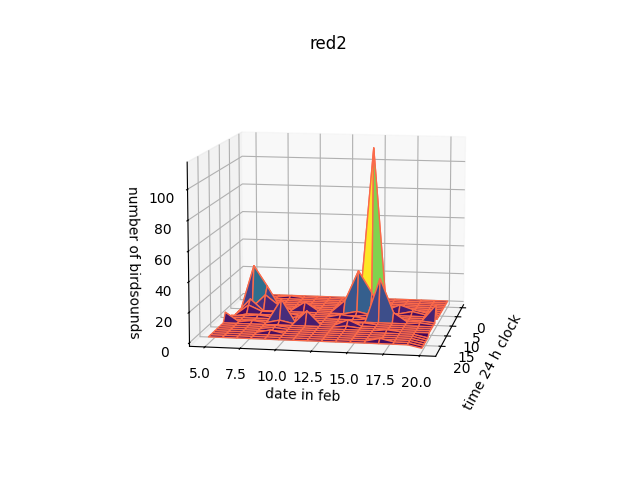
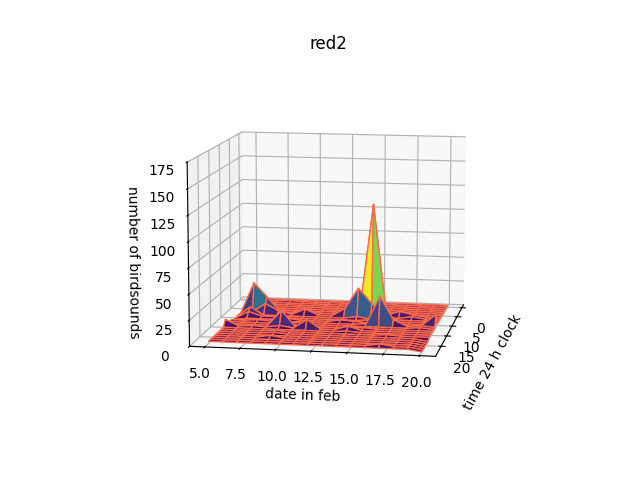
final program for counting birds

diff --git a/birdwatching.py b/birdwatching.py
@@ -52,6 +52,8 @@ class BirdAnalyzer:
 
         return string
 
+    #makes a 3D plot with hour (24 hour clock) on x axis, date in february on y axis
+    #and the occurance of birdsounds on z
     def plot_over_time(self, color):
         title = self.color + self.color_number
         xlabel = "time 24 h clock"
@@ -73,6 +75,8 @@ class BirdAnalyzer:
         ax.set_xlabel(xlabel)
         ax.set_ylabel(ylabel)
         ax.set_zlabel(zlabel)
+
+        ax.set_zlim(0,175)#scaling all to same 
 
         ax.view_init(elev=10, azim=10)#look directly at y
         plt.savefig(savepath)
@@ -193,7 +197,14 @@ class BirdAnalyzer:
         #clean some arrays
         self.activity_during_day = np.zeros(24)
 
-def plot_average(B0: BirdAnalyzer,B1: BirdAnalyzer,B2: BirdAnalyzer,B3: BirdAnalyzer):
+def create_plot():
+    #2D plot
+    fig2D = plt.figure()
+    ax2D = plt.axes()
+    
+    return fig2D, ax2D
+
+def plot_average(ax2D: plt.axes, B0: BirdAnalyzer,B1: BirdAnalyzer,B2: BirdAnalyzer,B3: BirdAnalyzer):
     B0.activity_over_time -= 2
     B1.activity_over_time -= 2
     B2.activity_over_time -= 2
@@ -233,100 +244,62 @@ def plot_average(B0: BirdAnalyzer,B1: BirdAnalyzer,B2: BirdAnalyzer,B3: BirdAnal
         
         days = np.vstack((days, day))
         #print(days)
-    
-    #plotting
-    title = B0.color + "-average"
-    xlabel = "time 24 h clock"
-    ylabel = "date in feb"
-    zlabel = "number of birdsounds"
-
-    savepath = "figures/" + title + "-2D" +".png"
 
     times = np.arange(24)#for all hours of the day
     dates = B0.corresponding_day
     TIMES, DATES = np.meshgrid(times, dates)
     activities = days
-    
-    """
-    fig = plt.figure()
-    ax = plt.axes(projection='3d')
-    
-    ax.plot_surface(TIMES, DATES, activities, cmap='viridis', edgecolor=B0.color)
-    ax.set_title(title)
-    ax.set_xlabel(xlabel)
-    ax.set_ylabel(ylabel)
-    ax.set_zlabel(zlabel)
-    
-    ax.view_init(elev=10, azim=10)#look slightly off y
-    
-    """
-    #2D plot
-    fig2D = plt.figure()
-    ax2D = plt.axes()
+
 
     day_sums = np.array([np.sum(act) for act in activities])
-    ax2D.plot(dates, day_sums, B0.color, linewidth = 4)
-    ax2D.set_facecolor('lightgray')
-    ax2D.grid()
-    ax2D.set_xlabel("date in feb")
-    ax2D.set_ylabel("average birdsound on "+ B0.color)
-    ax2D.set_title(title)
-
-
-    
-
-    plt.savefig(savepath)
-
-
-
-
-    """
-    print("this is days", days)
-
-    print(len(B0.activity_over_time))
-    print(len(B1.activity_over_time))
-    print(len(B2.activity_over_time))
-    print(len(B3.activity_over_time))
-    
-    print(B0.corresponding_day)
-    print(B1.corresponding_day)
-    print(B2.corresponding_day)
-    print(B3.corresponding_day)
-    """
+    ax2D.plot(dates, day_sums, B0.color, linewidth = 4, label = B0.color + " mics")
     
     return 0
 
+def save_plot(fig2D: plt.figure, ax2D: plt.axes):
+    #plotting
+    title = "average birdsounds on corresponding mic color"
+    xlabel = "date in feb"
+    ylabel = "average birdsounds"
+    zlabel = "number of birdsounds"
 
+    ax2D.set_facecolor('lightgray')
+    ax2D.grid()
+    ax2D.set_xlabel(xlabel)
+    ax2D.set_ylabel(ylabel)
+    fig2D.legend(facecolor = "darkgray", bbox_to_anchor = (0.9,0.8), loc = "center right", title = "color meaning")
+    
+    ax2D.set_title(title)
+
+    savepath = "figures/" + "BothColors-2D" +".png"
+    plt.savefig(savepath)
+    return 0
+
+#create the white analyzers
 white1_analyzer = BirdAnalyzer("white", "1")
 white2_analyzer = BirdAnalyzer("white", "2")
 white3_analyzer = BirdAnalyzer("white", "3")
 white4_analyzer = BirdAnalyzer("white", "4")
 
+#create the red analyzers
 red1_analyzer = BirdAnalyzer("red", "1")
 red2_analyzer = BirdAnalyzer("red", "2")
 red3_analyzer = BirdAnalyzer("red", "3")
 red4_analyzer = BirdAnalyzer("red", "4")
 
+#analyse white
 white1_analyzer.analyze_color()
 white2_analyzer.analyze_color()
 white3_analyzer.analyze_color()
 white4_analyzer.analyze_color()
 
+#analyse red
 red1_analyzer.analyze_color()
 red2_analyzer.analyze_color()
 red3_analyzer.analyze_color()
 red4_analyzer.analyze_color()
 
-#white2_analyzer.analyze_color()
-#white3_analyzer.analyze_color()
-#white4_analyzer.analyze_color()
-
-#white1_analyzer.erase_dummy_data()
-
-#print(white1_analyzer.corresponding_day)
-#print(white1_analyzer.activity_over_time)
-
-
+#used for coloring the 3D plots
 plot_colors = np.array([
             "#f7f7f7",
             "#d9d9d9",
@@ -337,33 +310,25 @@ plot_colors = np.array([
             "#de2d26",
             "#a50f15"
         ])
-
+        
+#white 3D plot
 white1_analyzer.plot_over_time(plot_colors[0])
 white2_analyzer.plot_over_time(plot_colors[1])
 white3_analyzer.plot_over_time(plot_colors[2])
 white4_analyzer.plot_over_time(plot_colors[3])
 
+#red 3D plot
 red1_analyzer.plot_over_time(plot_colors[4])
 red2_analyzer.plot_over_time(plot_colors[5])
 red3_analyzer.plot_over_time(plot_colors[6])
 red4_analyzer.plot_over_time(plot_colors[7])
 
-plot_average(white1_analyzer, white2_analyzer, white3_analyzer, white4_analyzer)
-plot_average(red1_analyzer, red2_analyzer, red3_analyzer, red4_analyzer)
+#2D collective -average plot
+fig2D, ax2D = create_plot()
+plot_average(ax2D, white1_analyzer, white2_analyzer, white3_analyzer, white4_analyzer)
+plot_average(ax2D, red1_analyzer, red2_analyzer, red3_analyzer, red4_analyzer)
+save_plot(fig2D, ax2D)
 
-
-"""
-colorBool = True
-dateBool = True
-while colorBool:
-    while dateBool:
-        dateBool = analyzer.advance_one_recording()
-        if dateBool and colorBool:
-            analyzer.analyze_file()
-    colorBool = analyzer.advance_color()
-    dateBool = True
-"""
-#analyzer.plot_over_time()
 
 
 
